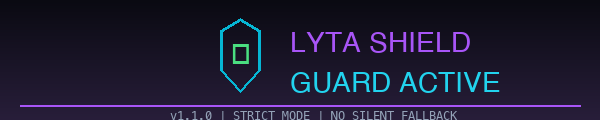
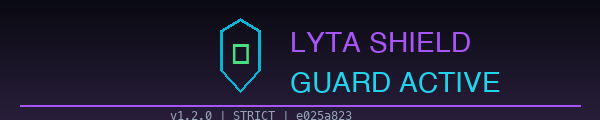
feat: lyta-shield restore; strict mode test; self-healing docs; badge v1.2.0

Changed region(s): [[0.45, 0.925, 0.78, 1.0], [0.3, 0.925, 0.33, 1.0]]

diff --git a/self-audit-log.md b/self-audit-log.md
@@ -25,12 +25,13 @@ Public log of daily self-audits over the latest Hermes session.
 - **Notes:** The guard correctly classified the malicious paste-jacking instruction as it appeared in the terminal output. This proves the wrapper inspects actual assistant/user-visible output in a live Hermes session.
 - **Commit:** `b5e2f145b611f8228801c3406f1878ebde1770b6`
 
-## 2026-07-28 (strict mode activation)
+## 2026-07-28 (strict mode test)
 
-- **Method:** patched `.zshrc` to set `LYTA_SHIELD_STRICT=1` and block `hermes` if the guard is missing
-- **Result:** `hermes` now fails loudly instead of silently falling back to unguarded execution
-- **Notes:** CI also verifies the wrapper, CLI, and doctor are executable and that the doctor passes. Prevents the common failure mode where a wrapper degrades to an unguarded path.
-- **Commit:** pending
+- **Method:** moved `integrations/hermes-wrapper.sh` to `/tmp/hermes-wrapper.sh.bak`, ran `hermes --version`, then restored the wrapper
+- **Result:** Hermes was blocked with the strict-mode error; after restore, `hermes --version` worked normally
+- **Verdict:** strict mode behaves correctly — no silent fallback to unguarded execution
+- **Notes:** Added `lyta-shield restore` command to re-install the wrapper function into `~/.zshrc` if damaged.
+- **Commit:** `e025a823051c69228ad3515bddec86c31afe77d3`
 
 ## How to reproduce
 

diff --git a/README.md b/README.md
@@ -156,6 +156,17 @@ By default the `.zshrc` wrapper sets `LYTA_SHIELD_STRICT=1`. If the guard is mis
 
 This prevents the common failure mode where a "defense in depth" wrapper silently falls back to the unguarded command after a file move or permission error.
 
+### Self-healing
+
+If the wrapper or `.zshrc` function is damaged, run:
+
+```bash
+lyta-shield restore
+source ~/.zshrc
+```
+
+This re-installs the wrapper function into `~/.zshrc` without duplicates.
+
 To opt out of strict mode:
 
 ```bash
@@ -167,6 +178,8 @@ Only do this if you are actively debugging the guard itself.
 ### CI guarantee
 
 The GitHub Actions workflow verifies that the wrapper, CLI, and doctor scripts are executable and that the doctor passes. A missing wrapper is a build failure.
+
+![LYTA Shield guard active](docs/lyta-shield-guard-active.png)
 
 
 ## Real validation
